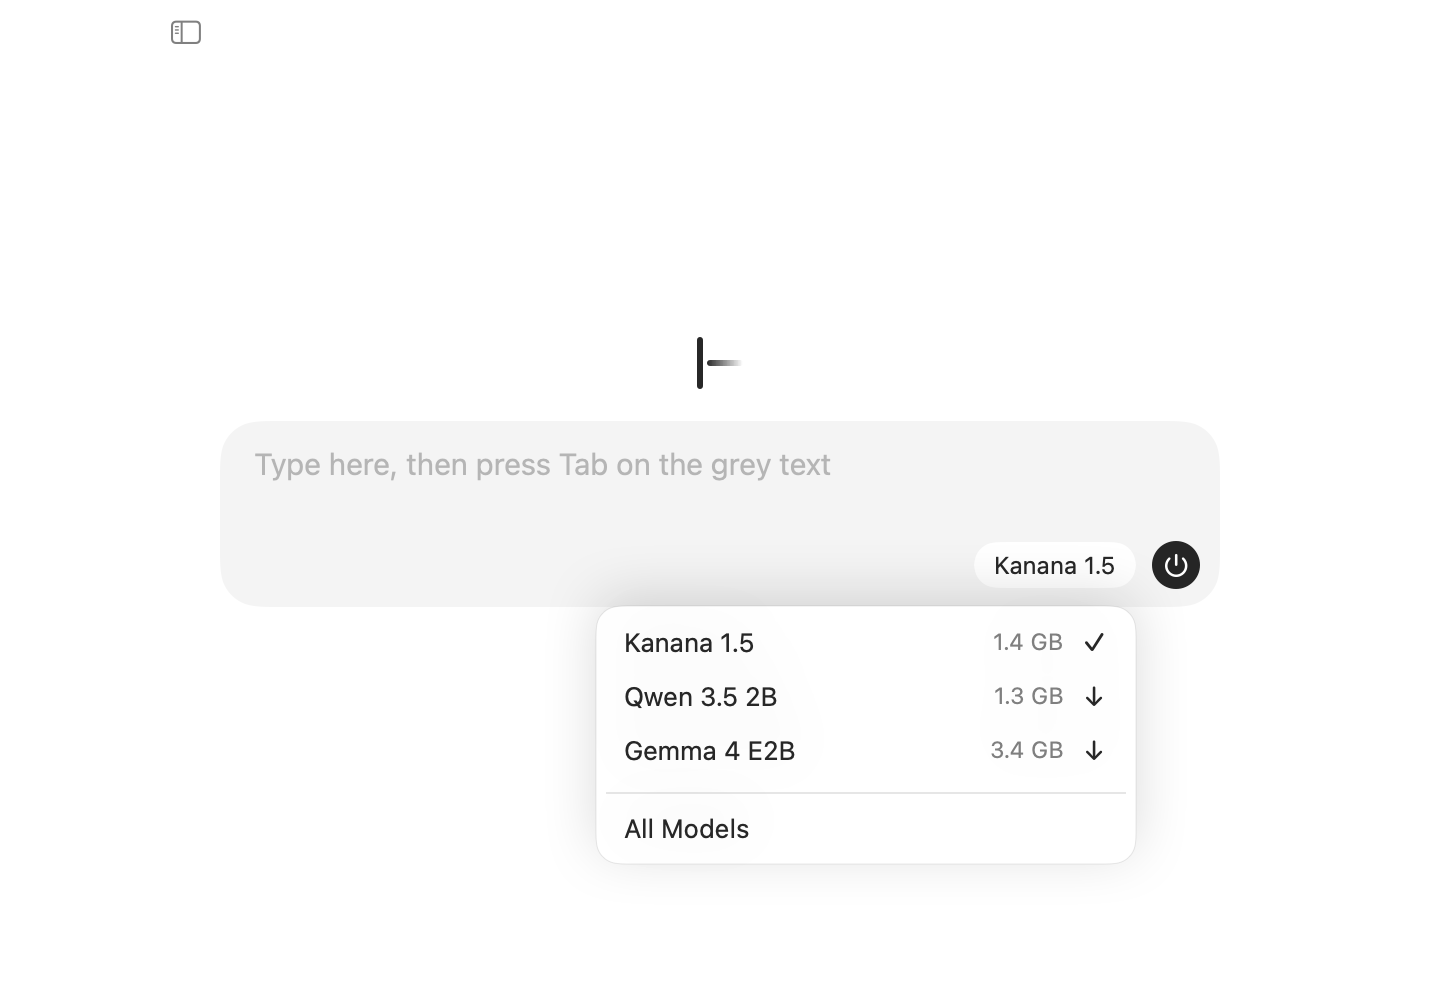
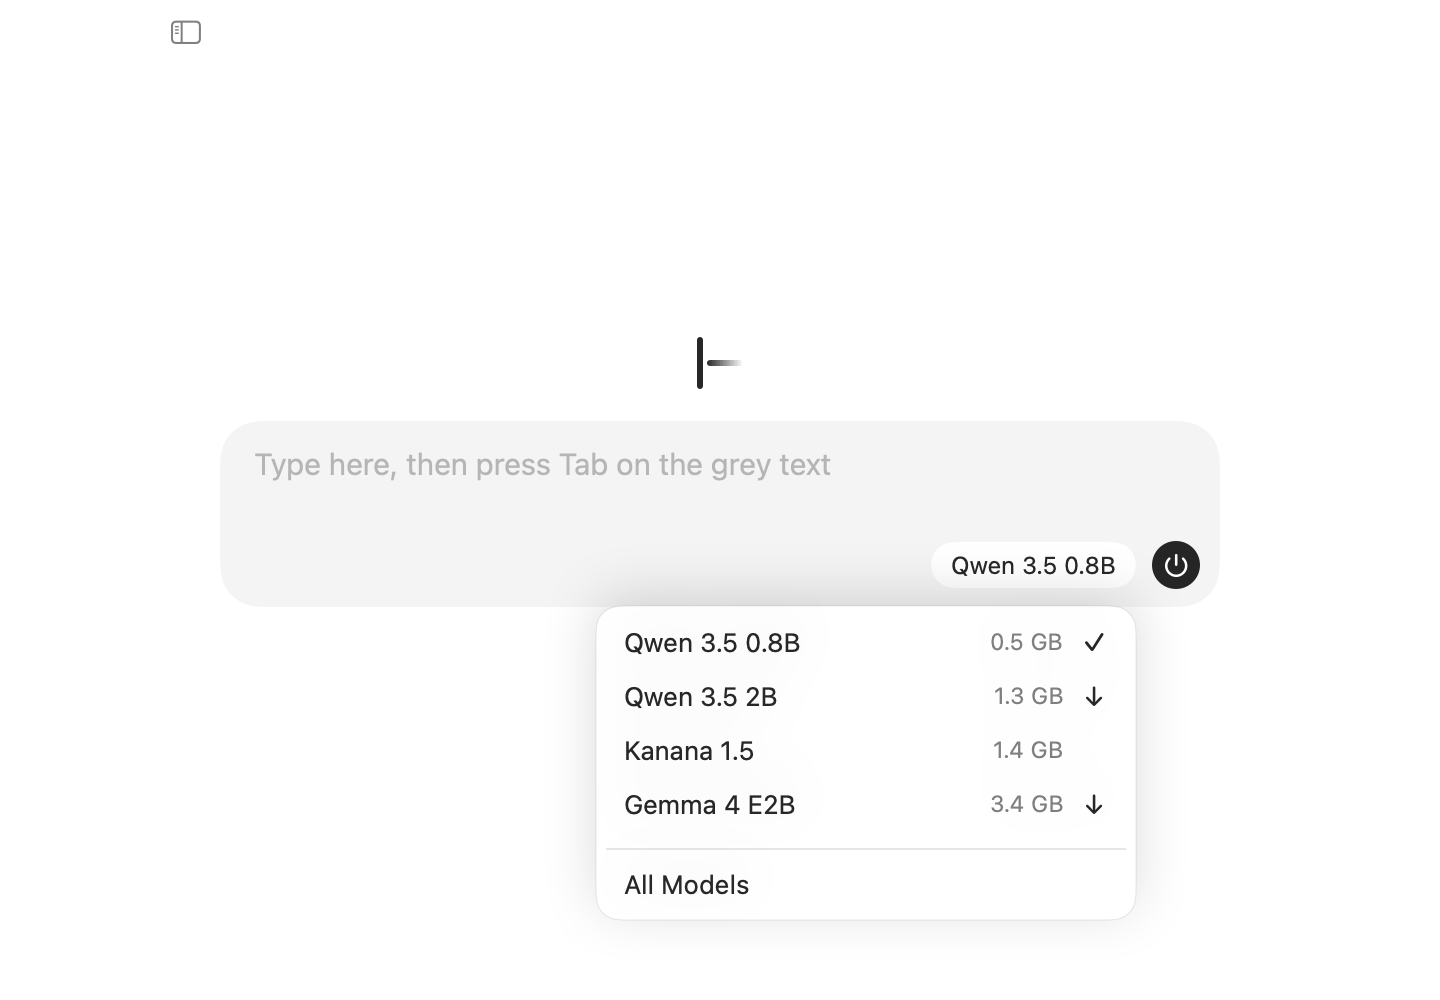
Default model: Qwen 3.5 0.8B, and the benched Qwen 3.5 2B file
Nine small models replayed in November 2026: 0.8B ties Qwen 2B on English (paired CI -0.09..+0.01)
at 41% of the size, and gives up Korean. Kanana 1.5 stays in the list for Korean. Docs carry the new
numbers; memory is still Kanana's, labelled, until e2e --measure runs. README pictures regenerated,
with demo sentences where the new default suggests.

diff --git a/Sources/ItdaApp/ModelStore.swift b/Sources/ItdaApp/ModelStore.swift
@@ -15,10 +15,12 @@ final class ModelStore: NSObject, URLSessionDownloadDelegate, @unchecked Sendabl
 
     /// First is the default. Notes come from the measurements in docs/measuring.md.
     static let models = [
-        Model(name: "Kanana 1.5", note: "The default. From Kakao, and strongest in Korean.", file: "kanana-1.5-2.1b-base.Q4_K_M.gguf",
+        Model(name: "Qwen 3.5 0.8B", note: "The default. The smallest and quickest.", file: "Qwen3.5-0.8B-Q4_K_M.gguf",
[1 lines of base64/hex data omitted]
+        Model(name: "Qwen 3.5 2B", note: "Better in Korean, and 2.4 times the size.", file: "Qwen3.5-2B-Q4_K_M.gguf",
[1 lines of base64/hex data omitted]
+        Model(name: "Kanana 1.5", note: "From Kakao, and strongest in Korean.", file: "kanana-1.5-2.1b-base.Q4_K_M.gguf",
[1 lines of base64/hex data omitted]
-        Model(name: "Qwen 3.5 2B", note: "The smallest, and slightly better in English.", file: "Qwen3.5-2B-Base.Q4_K_M.gguf",
[1 lines of base64/hex data omitted]
         Model(name: "Gemma 4 E2B", note: "Slightly better in English, and much larger.", file: "gemma-4-E2B.Q4_K_M.gguf",
[1 lines of base64/hex data omitted]
     ]

diff --git a/Tests/e2e/E2E.swift b/Tests/e2e/E2E.swift
@@ -307,7 +307,7 @@ enum EndToEnd {
             delays += "\(String(format: "\(name)-%04d", frame)).png \(delay)\n"
         }
         // Chosen as ones where the model does well, which the README says.
-        for (name, sentences) in [("en", ["Please let me know if you have any", "See you tomor", "As soon as possi"]), ("ko", ["안녕하세요. 만나서 반갑", "늦어서 죄송합", "이번 주 금요일까지 보내주시면 감사하겠"])] {
+        for (name, sentences) in [("en", ["Let me know if you have any quest", "See you tomor", "As soon as possi"]), ("ko", ["안녕하세요. 만나서 반갑", "감사합니다. 좋은 하루 보내", "이번 주 금요일까지 보내주시면 감사하겠"])] {
             frame = 0; delays = ""
             for sentence in sentences {
                 var text = ""

diff --git a/Sources/ItdaCore/Generation.swift b/Sources/ItdaCore/Generation.swift
@@ -99,7 +99,7 @@ public enum Stop {
 }
 
 public enum Gate {
-    /// Fitted on dev threads for 80% precision on English: -0.7, -0.7 and -0.6 on Kanana 1.5 2.1B, Qwen 3.5 2B and Gemma 4 E2B.
+    /// Fitted on dev threads for 80% precision on English: -0.7, -0.7, -0.6 and -0.6 on Kanana 1.5 2.1B, Qwen 3.5 2B, Qwen 3.5 0.8B and Gemma 4 E2B.
     public static let threshold = -0.7
 
     /// Tab is a key press, so one that saves one or two keystrokes saves nothing, and showing it only interrupts. By the keys

diff --git a/README.md b/README.md
@@ -17,7 +17,7 @@ brew tap hrsong99/itda && brew trust hrsong99/itda
 brew install --cask itda
 ```
 
-You need macOS 26 on Apple Silicon. Open Itda: its window asks for Accessibility, fetches a 1.4 GB model once, and gives you a field to try it in.
+You need macOS 26 on Apple Silicon. Open Itda: its window asks for Accessibility, fetches a 0.5 GB model once, and gives you a field to try it in.
 
 It keeps itself up to date, with signed and notarized releases. Turn that off under General. To build it yourself, with Swift 6.2 (Xcode 26), run `scripts/build-app.sh` and open `build/Itda.app`.
 
@@ -43,15 +43,15 @@ Most tools in this category go quiet while you compose Hangul, or suggest from a
 
 **It won't guess at the half-typed word.** The prompt stops at the last whole word and the model has to reproduce what you've typed so far. Across 130 paired mid-word English positions on a Gemma model, a useful suggestion went from 7.7% to 50.8%. The shipped mask on the default model wasn't compared this way.
 
-**It stays quiet when the model isn't sure.** Itda shows a suggestion only if the first word's probability, among words that fit what you've typed, clears one threshold. On 2,400 held-out English requests with the default model, the first word shown was right 84.9% of the time (919 of 1,082; 82-88%, by thread), at 45.1% coverage. With no gate, 50-53% were right. It also ends a suggestion before the first word it's unsure of, and doesn't show one that would save under three keystrokes. In the same replay, that took the grey characters that were right from 19% to 75%.
+**It stays quiet when the model isn't sure.** Itda shows a suggestion only if the first word's probability, among words that fit what you've typed, clears one threshold. On 2,400 held-out English requests with the default model, the first word shown was right 81.5% of the time (922 of 1,131), at 47.1% coverage. With no gate, 50-53% were right. It also ends a suggestion before the first word it's unsure of, and doesn't show one that would save under three keystrokes. In the same replay on Kanana 1.5, that took the grey characters that were right from 19% to 75%.
 
 **It finishes Korean with real key presses.** The syllable you're composing stays out of the prompt, the model's output must fit its 2-set keys (so `하` allows `한` or `함`), and Tab presses the remaining keys so the input method finishes the syllable itself. On 1,099 requests mid-syllable in public Korean text, keystrokes saved per request went from 0 when sending the syllable to the model to 0.69. It costs more wrong suggestions: 18.2% of those requests, against 8.4%.
 
-Across whole messages, replayed with real typing delays before the latest change to how much a suggestion shows, that saved **22.8% of keystrokes in English** (1,200 keys) and **8.8% in Korean** (1,200 keys of public text), or 13.4% on 70 of the author's own messages. A match has to be exact, so a good paraphrase scores zero. The English messages are the author's and aren't published. Method and more numbers: [docs/measuring.md](docs/measuring.md). The design: [docs/how-it-works.md](docs/how-it-works.md).
+Across whole messages, replayed with real typing delays before the latest change to how much a suggestion shows, the default model saved **21.6% of keystrokes in English** (800 keys) and **4.8% in Korean** (1,200 keys of public text), or 10.8% on 70 of the author's own messages. Kanana 1.5, one click away in the window, saves more in Korean: 8.8% and 13.4%. A match has to be exact, so a good paraphrase scores zero. The English messages are the author's and aren't published. Method and more numbers: [docs/measuring.md](docs/measuring.md). The design: [docs/how-it-works.md](docs/how-it-works.md).
 
 ## What it costs
 
-Measured on an M5 with 16 GB, running the real app path on a test window with `scripts/e2e.sh --measure`. [Details](docs/measuring.md).
+Measured on an M5 with 16 GB, running the real app path on a test window with `scripts/e2e.sh --measure`, with Kanana 1.5 (1.4 GB), the default before 0.1.1. Metal wires the whole model file, so the default's 0.5 GB should need about a third of the wired memory below; that isn't measured yet. [Details](docs/measuring.md).
 
 | State | Memory |
 |---|---|
@@ -61,9 +61,9 @@ Measured on an M5 with 16 GB, running the real app path on a test window with `s
 
 Wired memory is what counts: nothing else can use it, and Activity Monitor's per-app number leaves it out. Look at its Wired line.
 
-- **Disk:** a 1.4 GB model and an app of about 27 MB.
+- **Disk:** a 0.5 GB model and an app of about 27 MB.
 - **CPU:** 0.13-0.27% of a core idle over 60 s. 7-8% while typing about 5 keys a second.
-- **Speed:** a suggestion's first displayable word arrives in 60 ms in English and 102 ms in Korean (p50, requests that got that far, timed replay). No model call at all on 48% of English keys and 27% of Korean, because the suggestion still fits.
+- **Speed:** a suggestion's first displayable word arrives in 53 ms in English and 97 ms in Korean (p50, requests that got that far, timed replay). No model call at all on 47% of English keys and 20% of Korean, because the suggestion still fits.
 - **Power:** not measured.
 
 ## Privacy
@@ -78,7 +78,7 @@ Wired memory is what counts: nothing else can use it, and Activity Monitor's per
 
 - **macOS 26 or later.** Only tested on Apple Silicon, on one M5.
 - **Korean accept needs Apple's 2-Set Korean layout.** With another Korean layout, Itda shows nothing after a Hangul character, because a composition could swallow what it inserts.
-- **Korean is the weak spot.** The accuracy figures come mostly from public dialogue text. There, about a third of Korean suggestions shown match exactly (31-34%) and raising the threshold doesn't help; about half of the wrong ones are near misses. English is much better.
+- **Korean is the weak spot.** The accuracy figures come mostly from public dialogue text. There, about a fifth of Korean suggestions shown by the default model match exactly (21%), a third with Kanana 1.5 or Qwen 3.5 2B (31-34%), and raising the threshold doesn't help; about half of the wrong ones are near misses. English is much better.
 - **No suggestion with text after the caret.** Itda only continues at the end of a field's text.
 - **A build you make yourself** without a stable signing identity asks for Accessibility again after each rebuild. Releases don't.
 
@@ -102,7 +102,7 @@ Korean has been used by hand in T3 Code, a Chromium app, and works, though the s
 
 - **사용법:** 회색 글자가 제안입니다. Tab은 다음 단어, Shift-Tab은 전체, Esc는 닫기입니다.
 - **다른 점:** 조합 중인 글자를 모델에 보내지 않고, 두벌식 키 입력에 맞는 결과만 받습니다. Tab을 누르면 남은 키를 실제로 눌러 입력기가 글자를 마저 조합합니다.
-- **비용:** 입력 중과 그 후 15초 동안 약 1.5 GB를 점유하고(wired), 5분 쉬면 79 MB로 줄어듭니다. 모델은 처음 한 번 1.4 GB를 받습니다.
+- **비용:** 입력 중과 그 후 15초 동안 약 1.5 GB를 점유하고(wired), 5분 쉬면 79 MB로 줄어듭니다. 모델은 처음 한 번 0.5 GB를 받습니다. (메모리 수치는 이전 기본 모델 Kanana 1.5로 측정했습니다.)
 - **개인정보:** 손쉬운 사용 권한만 씁니다. 네트워크는 모델 다운로드와 업데이트 확인(일반 설정에서 끌 수 있음)에만 쓰고, 입력한 글을 저장하지 않으며, 비밀번호 칸은 건너뜁니다.
 - **설치:** [Itda.dmg](https://github.com/hrsong99/itda/releases/latest/download/Itda.dmg)를 내려받거나 `brew tap hrsong99/itda && brew trust hrsong99/itda` 후 `brew install --cask itda`를 실행하세요. 자동으로 업데이트됩니다.
-- **한계:** macOS 26 이상, Apple Silicon, 두벌식이 필요합니다. 한국어 정확도는 영어보다 낮습니다. 공개 대화 데이터에서 보여 준 제안의 31-34%가 정확히 일치했고, 전체 메시지 기준으로 키 입력을 8.8% 줄였습니다.
+- **한계:** macOS 26 이상, Apple Silicon, 두벌식이 필요합니다. 한국어 정확도는 영어보다 낮습니다. 기본 모델은 공개 대화 데이터에서 보여 준 제안의 21%가 정확히 일치했고, 전체 메시지 기준으로 키 입력을 4.8% 줄였습니다. 한국어를 많이 쓴다면 창에서 Kanana 1.5를 고르세요(31-34%, 8.8%).

diff --git a/docs/measuring.md b/docs/measuring.md
@@ -1,6 +1,6 @@
 # What the numbers mean, and how to get them yourself
 
-All of it on an M5 with 16 GB, llama.cpp b12167, Kanana 1.5 2.1B base (1.4 GB).
+All of it on an M5 with 16 GB, llama.cpp b12167. Unless it says otherwise, on Kanana 1.5 2.1B base (1.4 GB), the default until 0.1.0. The default is now Qwen 3.5 0.8B (0.5 GB): see [Choosing the default model](#choosing-the-default-model). Its memory isn't measured yet.
 
 ## Memory: what a user actually pays
 
@@ -58,7 +58,7 @@ swift run --disable-keychain itda-replay --model model.gguf --in yours.jsonl --o
 `yours.jsonl` has one `{"context": "...", "text": "..."}` per message: `text` is what was typed, `context` what was on screen. Any text of your own will do. The trace holds that text, so keep
 it private. Scoring is exact match, so a good paraphrase scores zero, and it's in `Sources/itda-replay/Score.swift` at that tag.
 
-Results below are for the default model at the shipped threshold, -0.7, unless a cell says otherwise. Typing delays come from a 107-key histogram, p50 264 ms. Later commits only removed unused code from the engine and policy; the app's accepting and display have changed since, and replay doesn't cover those.
+Results below are for Kanana 1.5 at the shipped threshold, -0.7, unless a cell says otherwise. Typing delays come from a 107-key histogram, p50 264 ms. Later commits only removed unused code from the engine and policy; the app's accepting and display have changed since, and replay doesn't cover those.
 
 **The text.** English: the author's own messages, each with the message before it as context. They aren't published, and neither is anything quoting them. Korean, public: dialogue from [SmileStyle](https://github.com/smilegate-ai/korean_smile_style_dataset), which is other people's style-transfer text, so it isn't how anyone writes messages. Korean, own: 70 of the author's messages, with Hangul inside mostly English text. That's a small sample, and half of them come from threads also used to fit the threshold on English. Threads are split, so none is in both the fitting and test sets. A real input method wasn't used in replay: composing states come from a model of 2-set.
 
@@ -90,3 +90,24 @@ Where the syllable is already final, sending it is better on the author's own te
 The live input method is a separate check, `scripts/e2e.sh --ime`: every composing state of 17 hard words, Tab finishing each in a native field. It needs you idle for 15 s, as it switches the system's input source.
 
 Each suggestion is also unit tested without a model or GUI (`swift test`), and against a real model with `ITDA_MODEL=<gguf> swift test`.
+
+## Choosing the default model
+
+November 2026, the same replay (`itda-replay` at tag `bench-1`, threshold -0.7) on the newest small base models that fit in memory. English decides; Korean has to work. Tab keys per request, English test threads (2,400 requests per model), with a 95% CI paired by thread against Qwen 3.5 2B. Saved: whole messages with typing delays, the same 40 English messages (800 keys). Korean, own: keys per request on Hangul, 70 of the author's messages. Timed runs shared the Mac with other work.
+
+| Model | File | Right when shown | Wrong and shown, per request | Tab keys per request | Saved, whole messages | First word, p50 | Korean, own |
+|---|---|---|---|---|---|---|---|
+| Granite 4.2 3B | 2.24 GB | 77.6% | 12.2% | 1.06, +0.01 to +0.14 | 23.8% | 79 ms | 0.49 |
+| Gemma 4 E2B | 3.43 GB | 82.3% | 8.7% | 1.00, -0.04 to +0.08 | 23.2% | 71 ms | 0.54 |
+| Qwen 3.5 2B | 1.28 GB | 81.6% | 9.0% | 0.98 | 23.1% | 74 ms | 0.88 |
+| Kanana 1.5 2.1B | 1.39 GB | 84.9% | 6.8% | 0.92, -0.12 to +0.01 | 22.1% | 60 ms | 1.03 |
+| **Qwen 3.5 0.8B** | **0.53 GB** | 81.5% | 8.7% | 0.94, -0.09 to +0.01 | 21.6% | 53 ms | 0.60 |
+| Ternary Bonsai 2 2B, Q2_0 | 0.55 GB | 78.8% | 10.0% | 0.91, -0.13 to -0.02 | 19.8% | 73 ms | 0.68 |
+| Kanana 2 3B | 1.98 GB | 82.7% | 7.9% | 0.90, -0.15 to -0.02 | 19.2% | 74 ms | 0.81 |
+| Gemma 4 E2B QAT, 2-bit | 2.19 GB | 70.0% | 14.2% | 0.78, -0.27 to -0.12 | 19.1% | 61 ms | 0.29 |
+| LFM3 1.7B | 1.10 GB | 78.7% | 8.6% | 0.73, -0.32 to -0.18 | 17.0% | 63 ms | 0.41 |
+
+- Granite leads by showing more wrong suggestions. At its own threshold for 80% precision on dev threads (-0.5) it gives 0.96 keys at 83.0%, level with Qwen 3.5 2B at 1.75 times the size.
+- Qwen 3.5 0.8B ties Qwen 3.5 2B on English within the CI, at 41% of the size and with the quickest first word, so it's the default. What it gives up is Korean: own messages 0.60 against 0.88 keys per request (CI -0.52 to -0.10).
+- Qwen 3.5 0.8B against Kanana 1.5, the old default, in full: English test 922 of 1,131 shown right (81.5%), coverage 47.1%. Whole messages: English 21.6% against 22.1% (800 keys), Korean public 4.8% against 8.8% (1,200 keys), Korean own 10.8% against 13.4% (1,800 keys). Korean public suggestions on Hangul right when shown: 20.9% against 33.7%. First displayable word p50: 53, 97 and 102 ms against 60, 102 and 114 ms. No model call on 47%, 20% and 26% of keys against 48%, 27% and 28%.
+- Not tried: models of 3.5 GB or more, community fine-tunes, and Ternary Bonsai's smaller packings, which need a fork of llama.cpp. Gemma 4's tokenizer fix of 3 November 2026 changed no weights and came after these files.

diff --git a/docs/how-it-works.md b/docs/how-it-works.md
@@ -49,7 +49,7 @@ Every number is from a replay of real typing, scored by exact match, on an M5. H
 | 2b | Stop before the first unsure word, and don't show a first word of under three keystrokes | English test threads, Kanana: grey characters that were right went from 19% to 75%, and ghosts on 45% of requests to 18%, for 18% less saved per request. See measuring.md | Filling all 8 tokens: only 23% of ghosts were right to the end |
 | 8 | llama.cpp in process, reading the logits | The gate needs true probability over every allowed token, which `n_probs` can't give. Cancelling during prefill takes 24 ms (p50), which a server disconnect doesn't offer | `llama-server` |
 | 9 | One raw path, no chat template or fill-in-the-middle | Fill-in-the-middle lost and document framing added nothing. All three models tested run on one path with no per-model code | Per-model tables |
-| 10 | Default model Kanana 1.5 2.1B base, 1.4 GB, Apache-2.0 | Korean ahead of Gemma on the author's messages (1.03 against 0.54 keys per request, CI +0.17 to +0.80), level with Qwen. English a little behind (22.1% against 23.2%, same 40 messages), at 40% of Gemma's size | Gemma as default: stays one menu item away, with any GGUF |
+| 10 | Default model Qwen 3.5 0.8B, 0.5 GB, Apache-2.0. English comes first; Korean has to work, not lead | Nine small models replayed on English, November 2026. Keys saved by Tab per request, English test set, against Qwen 3.5 2B: -0.09 to +0.01 (paired, by thread), at 41% of its size, first word 53 ms against 74. Whole messages 21.6% against 23.1%. Newer models (LFM3 1.7B, Kanana 2 3B, Ternary Bonsai 2, a 2-bit Gemma) lost; Granite 4.2 3B and Gemma 4 E2B only tie Qwen 2B at its precision. See measuring.md | Kanana 1.5, the default until 0.1.0: Korean clearly better (own messages 1.03 against 0.60 keys per request), English a little behind. Stays in the window with Qwen 3.5 2B and Gemma |
 | 11 | Accessibility only | OCR-like context wasn't significantly better than Accessibility's, and it needs Screen Recording | OCR, clipboard, history, personal n-grams |
 | 12 | Wired memory held for 15 s, not 3 minutes | ggml's default keeps 1.5 GB pinned for 3 minutes after the last request. 15 s leaves requests while typing unchanged within noise. Turning residency off adds 25-45 ms per request | Residency off |
 | 13 | A key's hide waits one frame | Hiding at once blanked the ghost on 46 of 48 keys, about 4 flashes a second at 60 Hz. One frame later: none, in a native host | Hiding at once |

diff --git a/docs/live-test.md b/docs/live-test.md
@@ -3,7 +3,7 @@
 What the automatic checks can't reach: the real Tab in real apps, and Korean in Chromium. Most important first; each step is what to do, then **what should happen**. Stop when your 10 minutes are up: what's left matters least.
 Any wrong character: tell me what you typed and what came out. Use a new, empty T3 thread, as step 11 sends a message.
 
-## Before you start (the first time, wait for a 1.4 GB download; it isn't part of the 10 minutes)
+## Before you start (the first time, wait for a 0.5 GB download; it isn't part of the 10 minutes)
 A. Quit Cotypist, which also takes Tab, then quit and reopen T3 and ego lite, so the accessibility switches it turned on are off.
    **Cotypist's icon is gone from the menu bar, and both apps are back.**
 B. Open `build/Itda.app`; its window asks for Accessibility. Press the button and grant it.
@@ -57,7 +57,7 @@ W1. Type in its field, and Tab on the grey text. Paste with Cmd-V.
     **The same as in any app.**
 W2. Press the power button, type, press it again. Then the sidebar icon: Apps, add an app, remove it; General, Start at Login on, then off.
     **No ghost while off. The login switch keeps what you set, and System Settings shows Itda under Login Items only while it's on.**
-W3. Models: Get Qwen, stop it with ✕, Get it again, wait, Use it, type, then Use Kanana 1.5.
+W3. Models: Get Kanana 1.5, stop it with ✕, Get it again, wait, Use it, type, then Use Qwen 3.5 0.8B.
     **The second Get resumes. The pill in the field names the model in use, and suggestions keep working after each switch.** Click the pill: **the list opens at once, marks the model in use, and closes on a click outside or Esc.**
 W4. Close the window, then open Itda from Finder or the menu.
     **The Dock icon goes with the window. The same window comes back, and Itda kept working between.**

diff --git a/CREDITS.md b/CREDITS.md
@@ -42,7 +42,9 @@ No code was copied into ItdaApp either. These are the ideas it uses.
 |---|---|---|---|
 | Inference engine, linked as a pinned xcframework (b12167) | [ggml-org/llama.cpp](https://github.com/ggml-org/llama.cpp) | MIT | Its licence ships in the app, from `scripts/llama.cpp-LICENSE` |
 | Automatic updates, linked and shipped in the app | [sparkle-project/Sparkle](https://github.com/sparkle-project/Sparkle) | MIT and others, in `Sparkle-LICENSE` in the app | |
-| Default model, Kanana 1.5 2.1B base, by Kakao | [kakaocorp/kanana-1.5-2.1b-base](https://huggingface.co/kakaocorp/kanana-1.5-2.1b-base) | Apache-2.0 | Not in this repo. Downloaded on first run |
+| Default model, Qwen 3.5 0.8B, by Alibaba's Qwen team | [Qwen/Qwen3.5-0.8B](https://huggingface.co/Qwen/Qwen3.5-0.8B) | Apache-2.0 | Not in this repo. Downloaded on first run |
+| The GGUFs of it and of Qwen 3.5 2B, by Unsloth | [unsloth/Qwen3.5-0.8B-GGUF](https://huggingface.co/unsloth/Qwen3.5-0.8B-GGUF), [unsloth/Qwen3.5-2B-GGUF](https://huggingface.co/unsloth/Qwen3.5-2B-GGUF) | Apache-2.0 | Q4_K_M, checked by SHA-256 |
+| Optional model, Kanana 1.5 2.1B base, by Kakao | [kakaocorp/kanana-1.5-2.1b-base](https://huggingface.co/kakaocorp/kanana-1.5-2.1b-base) | Apache-2.0 | Not in this repo. Downloaded if you pick it |
 | The GGUF the app downloads, by mradermacher, from [OpenLLM-Korea's copy](https://huggingface.co/OpenLLM-Korea/kanana-1.5-2.1b-base) | [mradermacher/kanana-1.5-2.1b-base-GGUF](https://huggingface.co/mradermacher/kanana-1.5-2.1b-base-GGUF) | Apache-2.0 | Q4_K_M, checked by SHA-256 |
 | Public Korean text used to measure accuracy | [smilegate-ai/korean_smile_style_dataset](https://github.com/smilegate-ai/korean_smile_style_dataset) | CC BY-NC 4.0 | Used for measuring only. None of it is in this repo or the app |
 

diff --git a/AGENTS.md b/AGENTS.md
@@ -24,6 +24,7 @@ A menu-bar Mac app: inline Korean and English suggestions from a local model. Re
 - The tag `bench-1` keeps the replay harness (`itda-replay`), removed from main. Don't move it.
 
 ## Traps
+- Accessibility grants are pinned to the signing certificate. The Developer ID build can't use a grant made for an Apple Development build, and a relaunch silently loses it. To keep one, re-sign that copy with the granted certificate and check it with `codesign -v -R <csreq from TCC.db>`.
 - Activity Monitor's per-app Memory hides the 1.5 GB Metal wires. Read `docs/measuring.md` before claiming a memory number.
 - `Gate.threshold` is fitted for English, and no Korean threshold exists. Don't tune it on Korean.
 - A delayed cleanup belongs to the input revision that scheduled it. A successful field read is not a successful display.
